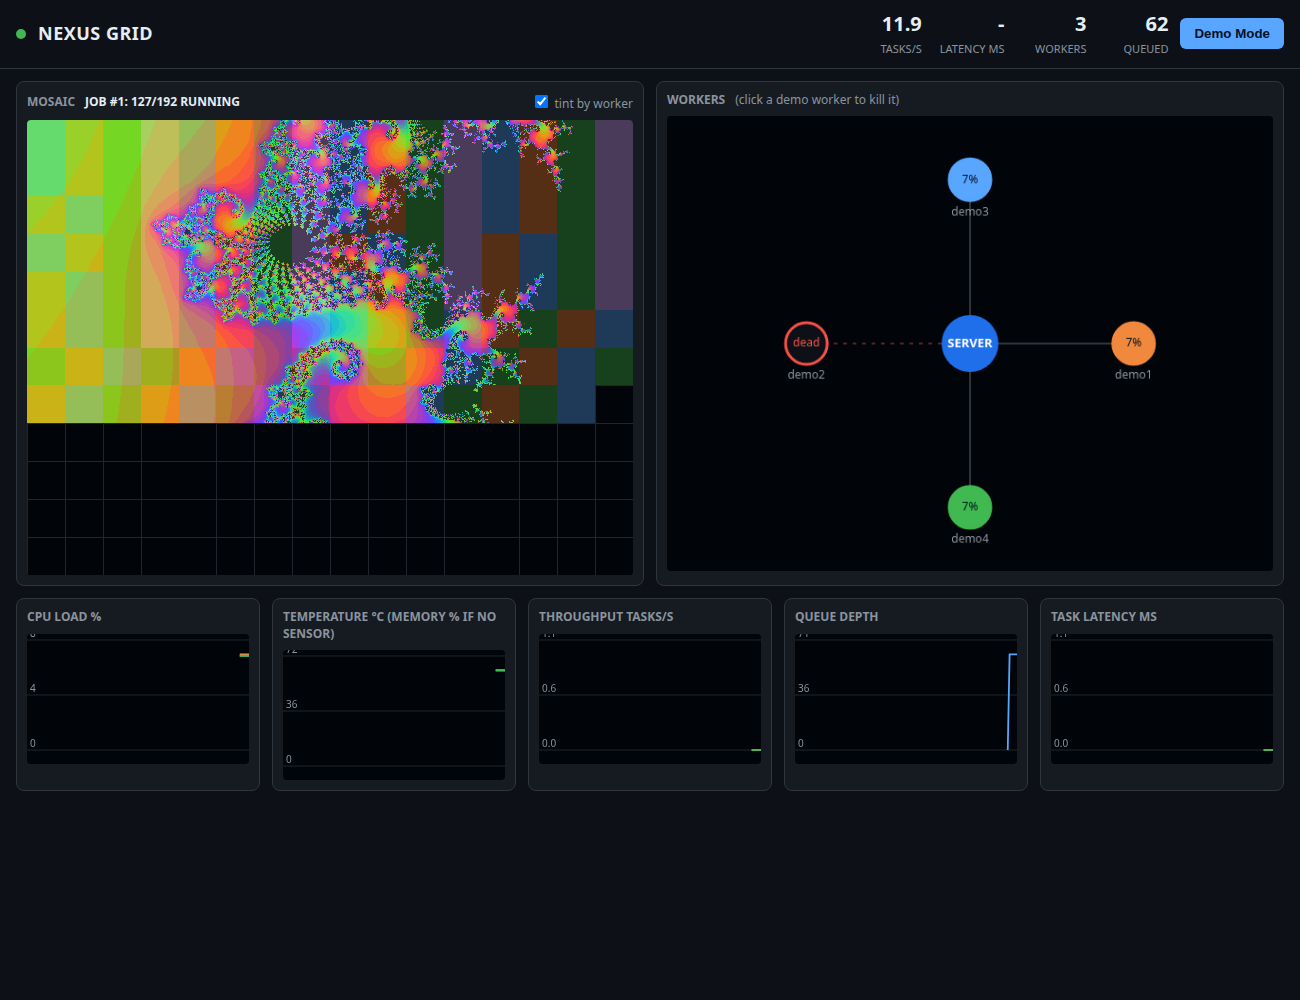
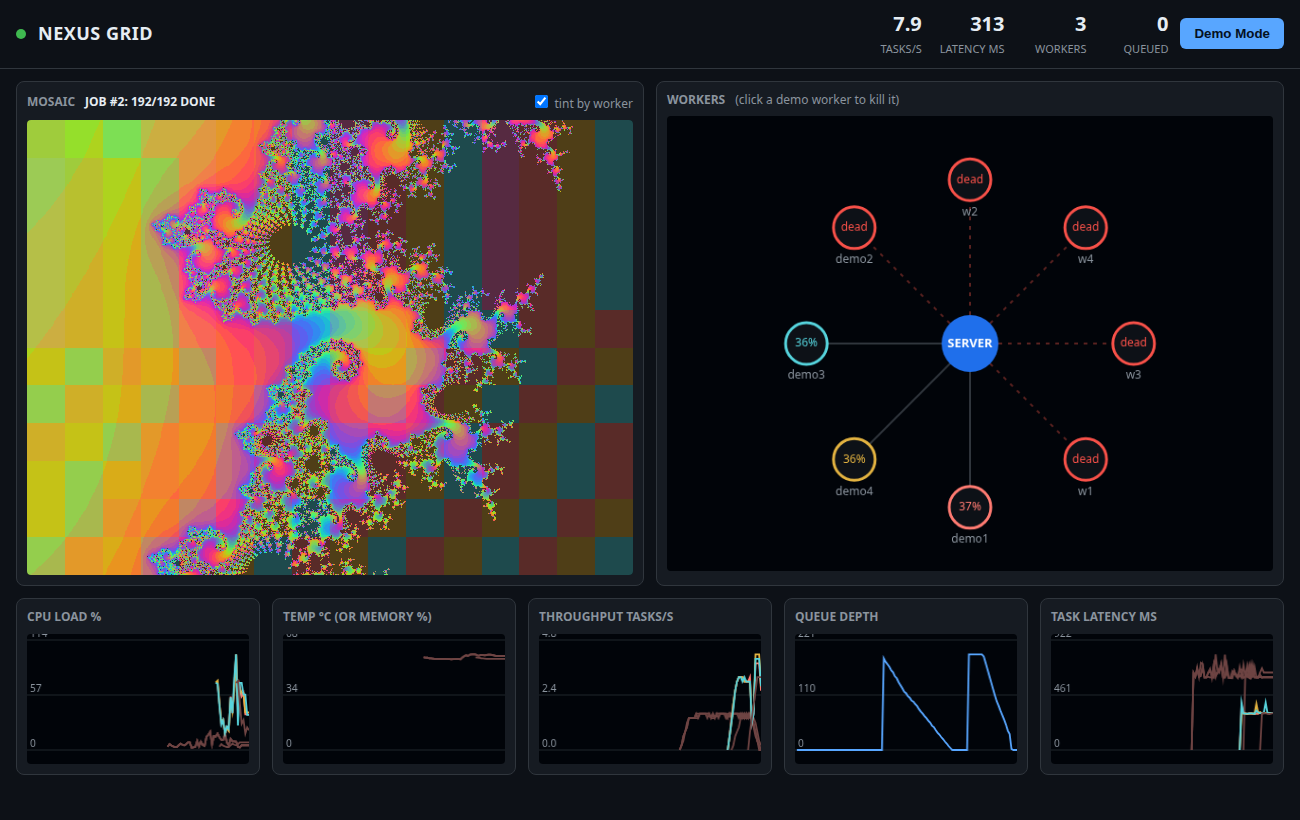
Document release downloads, demo script and Stage 5 results

diff --git a/README.md b/README.md
@@ -19,14 +19,28 @@ curl -X POST localhost:8000/api/jobs -H 'Content-Type: application/json' \
 Docker: `docker build -t nexus-grid . && docker run -p 8000:8000 -e PORT=8000 nexus-grid`. Architecture and packet format: [docs/ARCHITECTURE.md](docs/ARCHITECTURE.md).
 
 ## Desktop worker and image batch
-- Desktop worker (status window, Python + tkinter): `python -m nexus.gui`, or the packaged single-file executable built by `tools/build_client.sh` (GitHub Actions builds Linux, Windows and macOS: Actions -> build-client -> Artifacts, or the Releases page for tagged versions). Enter the server URL and access key, press Connect. Not code-signed: Windows SmartScreen or macOS Gatekeeper will ask for confirmation.
+- Desktop worker (status window, Python + tkinter): `python -m nexus.gui`, or download the packaged single-file client from the [v0.1.0 release](https://github.com/LoPHarp/nexus-grid/releases/tag/v0.1.0):
+  - [Windows](https://github.com/LoPHarp/nexus-grid/releases/download/v0.1.0/nexus-worker-Windows.exe) (`nexus-worker-Windows.exe`)
+  - [macOS, Apple silicon](https://github.com/LoPHarp/nexus-grid/releases/download/v0.1.0/nexus-worker-macOS)
+  - [Linux x86-64](https://github.com/LoPHarp/nexus-grid/releases/download/v0.1.0/nexus-worker-Linux)
+
+  **Build status:** the Linux binary was built by CI and I ran it by hand (it starts, connects and processes tasks). **The Windows and macOS binaries were produced by CI (GitHub Actions) and have not been run manually.** None are code-signed.
+- Run the client: start it, enter the server URL (`https://nexus-grid-2ivy.onrender.com`) and the access key, press Connect. The status line shows `connected`; tasks done and the current task update live. Flags for scripting: `--url`, `--key`, `--name`, `--autoconnect`.
+  - Windows: double-click; SmartScreen shows "unknown publisher": More info -> Run anyway.
+  - macOS: `chmod +x nexus-worker-macOS && xattr -d com.apple.quarantine nexus-worker-macOS && ./nexus-worker-macOS` (opens with a Terminal window; the build targets Apple silicon).
+  - Linux: `chmod +x nexus-worker-Linux && ./nexus-worker-Linux` (needs a desktop session).
+- Rebuild locally: `tools/build_client.sh` (builds for the current OS). CI: `.github/workflows/build-client.yml`, runs on `v*` tags and manually.
 - Headless worker: `set -a; . ./.env; set +a; python -m nexus.worker` (reads `NEXUS_URL`, `NEXUS_API_KEY`). Keep the key in an untracked `.env`.
 - Image batch (resize to fit `max_side`, re-compress, convert JPEG/PNG/WEBP): `python tools/submit_images.py ./photos --max-side 800 --format WEBP --out out` sends the folder as one job (one task per image), waits and unpacks the results zip.
+
+## Demo
+`set -a; . ./.env; set +a; demo/demo.sh` runs the whole scenario against `NEXUS_URL` (default: local server): 4 workers connect, a 192-tile Mandelbrot job renders, one worker is killed, its tiles are re-assigned, the job completes and a worker table is printed. Or press **Demo Mode** on the dashboard. Recording script: [docs/DEMO.md](docs/DEMO.md).
 
 ## Evidence
 | Claim | Command |
 |---|---|
 | Queue, priorities, heartbeat timeout, reassignment, stale results, retry limit | `.venv/bin/python -m pytest tests/test_core.py` |
+| Same scenario against the public server (4 workers, kill 1, 192/192 done) | `demo/demo.sh` with `NEXUS_URL` and `NEXUS_API_KEY` set |
 | Real processes: a worker is killed mid-job and the job still completes | `.venv/bin/python -m pytest tests/test_failover.py` or `demo/failover.sh` |
 | Workers reconnect after a server restart | `tests/test_failover.py::test_worker_reconnects_after_server_restart` |
 | `X-API-Key` is enforced on job writes and on the worker socket; history endpoint records metrics | `tests/test_auth_history.py` |

diff --git a/DEVLOG.md b/DEVLOG.md
@@ -30,3 +30,11 @@
 - Tested: `pytest` 22 passed; GUI and the packed Linux binary connected to a local server and the binary's worker took part in a job; local image job 3 files 9.3 MB -> 0.29 MB. No screenshot tool on this machine, so the window was checked by behaviour, not by eye. Windows/macOS builds not run yet.
 - Delegated to free models: nothing.
 - After push: Render redeployed; public image job (3 files, 9.3 MB -> 0.47 MB) through `wss://` worker + `tools/submit_images.py` with the key from `.env`: done. CI `build-client` run: Linux, Windows, macOS builds all succeeded (artifacts ~50/31/20 MB).
+
+## 2026-11-24 - Stage 5: deploy and demo
+- Done: `demo/demo.sh` (scenario for the video against any server, waits for a sleeping host), `docs/DEMO.md` (shot list), `worker_removed` event so dead nodes disappear from the dashboard after 60 s, release `v0.1.0` with Linux, Windows and macOS clients built by CI (tag push), README download links and run instructions.
+- Public run (Render free): `demo/demo.sh` 4 workers, killed w1 at 64/192, finished 192/192 on the others (w2 59, w3 58, w4 58 tiles, w1 17). Dashboard Demo Mode button (4 server-side workers) also worked: the 512 MB instance stayed healthy. Screenshot of the public dashboard checked by eye.
+- Fixed: CI release step needed `contents: write` and unique asset names per OS (added before tagging).
+- Verified: the downloaded Linux release binary starts. Windows and macOS assets exist but were not run by hand.
+- Not done yet: the video itself (Denys records it with docs/DEMO.md), the submission form.
+- Delegated to free models: nothing.

diff --git a/TOKEN_LOG.md b/TOKEN_LOG.md
@@ -10,6 +10,7 @@ Actual token spend for building Nexus Grid with Claude Code. Numbers are taken f
 ## Snapshots
 | Date/time | Stage | Input | Output | Cache | Total | Source |
 |---|---|---|---|---|---|---|
+| 2026-11-24 12:23 | Stage 5 (deploy, demo, release) | 132 | 88,891 | 127,948 write / 6,163,501 read | 6,380,472 | project jsonl, 61 msgs |
 | 2026-11-24 12:04 | Stage 4 end (public check, CI) | 116 | 81,270 | 118,012 write / 5,132,812 read | 5,332,210 | project jsonl, 54 msgs |
 | 2026-11-24 12:01 | Stage 4 (desktop worker, image batch) | 106 | 79,889 | 113,290 write / 4,423,861 read | 4,617,146 | project jsonl, 49 msgs |
 | 2026-11-24 11:49 | Stage 3 (API) | 78 | 57,251 | 90,170 write / 2,770,002 read | 2,917,501 | project jsonl, 36 msgs |
